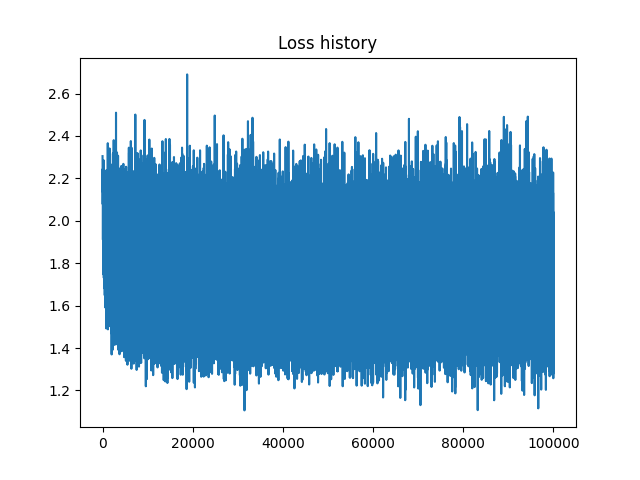
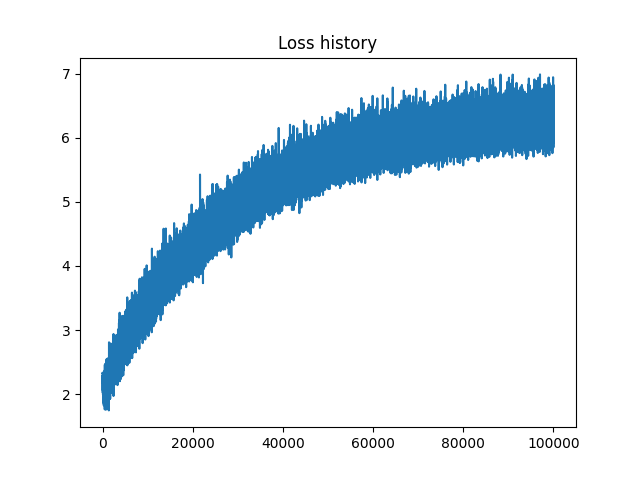
2 commit

diff --git a/src/seminar2.py b/src/seminar2.py
@@ -40,7 +40,7 @@ def softmax_loss_and_grad(W: np.array, X: np.array, y: np.array, reg: float) -> 
     softmax_Z = exp_Z / np.sum(exp_Z, axis=1, keepdims=True)
     data_loss = -np.log(softmax_Z[range(N), y])
 
-    loss = np.mean(data_loss) + reg * np.sum(W ** 2)
+    loss = np.mean(data_loss) + np.sum(W ** 2)
 
     # Backward pass
     dL_dZ = softmax_Z

diff --git a/output/seminar2/report.md b/output/seminar2/report.md
@@ -1,14 +1,14 @@
 # Training Softmax classifier  
-datetime: 2023-10-27 21:18:00  
-Well done in: 38 seconds  
+datetime: 2023-10-27 21:46:35  
+Well done in: 48 seconds  
 learning_rate = 0.001  
 reg = 0.01  
 num_iters = 100000  
 batch_size = 32  
 
-Final loss: 1.506160741736441   
-Train accuracy: 0.43186   
-Test accuracy: 0.4117  
+Final loss: 6.0232998270401605   
+Train accuracy: 0.43314   
+Test accuracy: 0.4099  
     
 <img src="weights.png">  
 <br>
